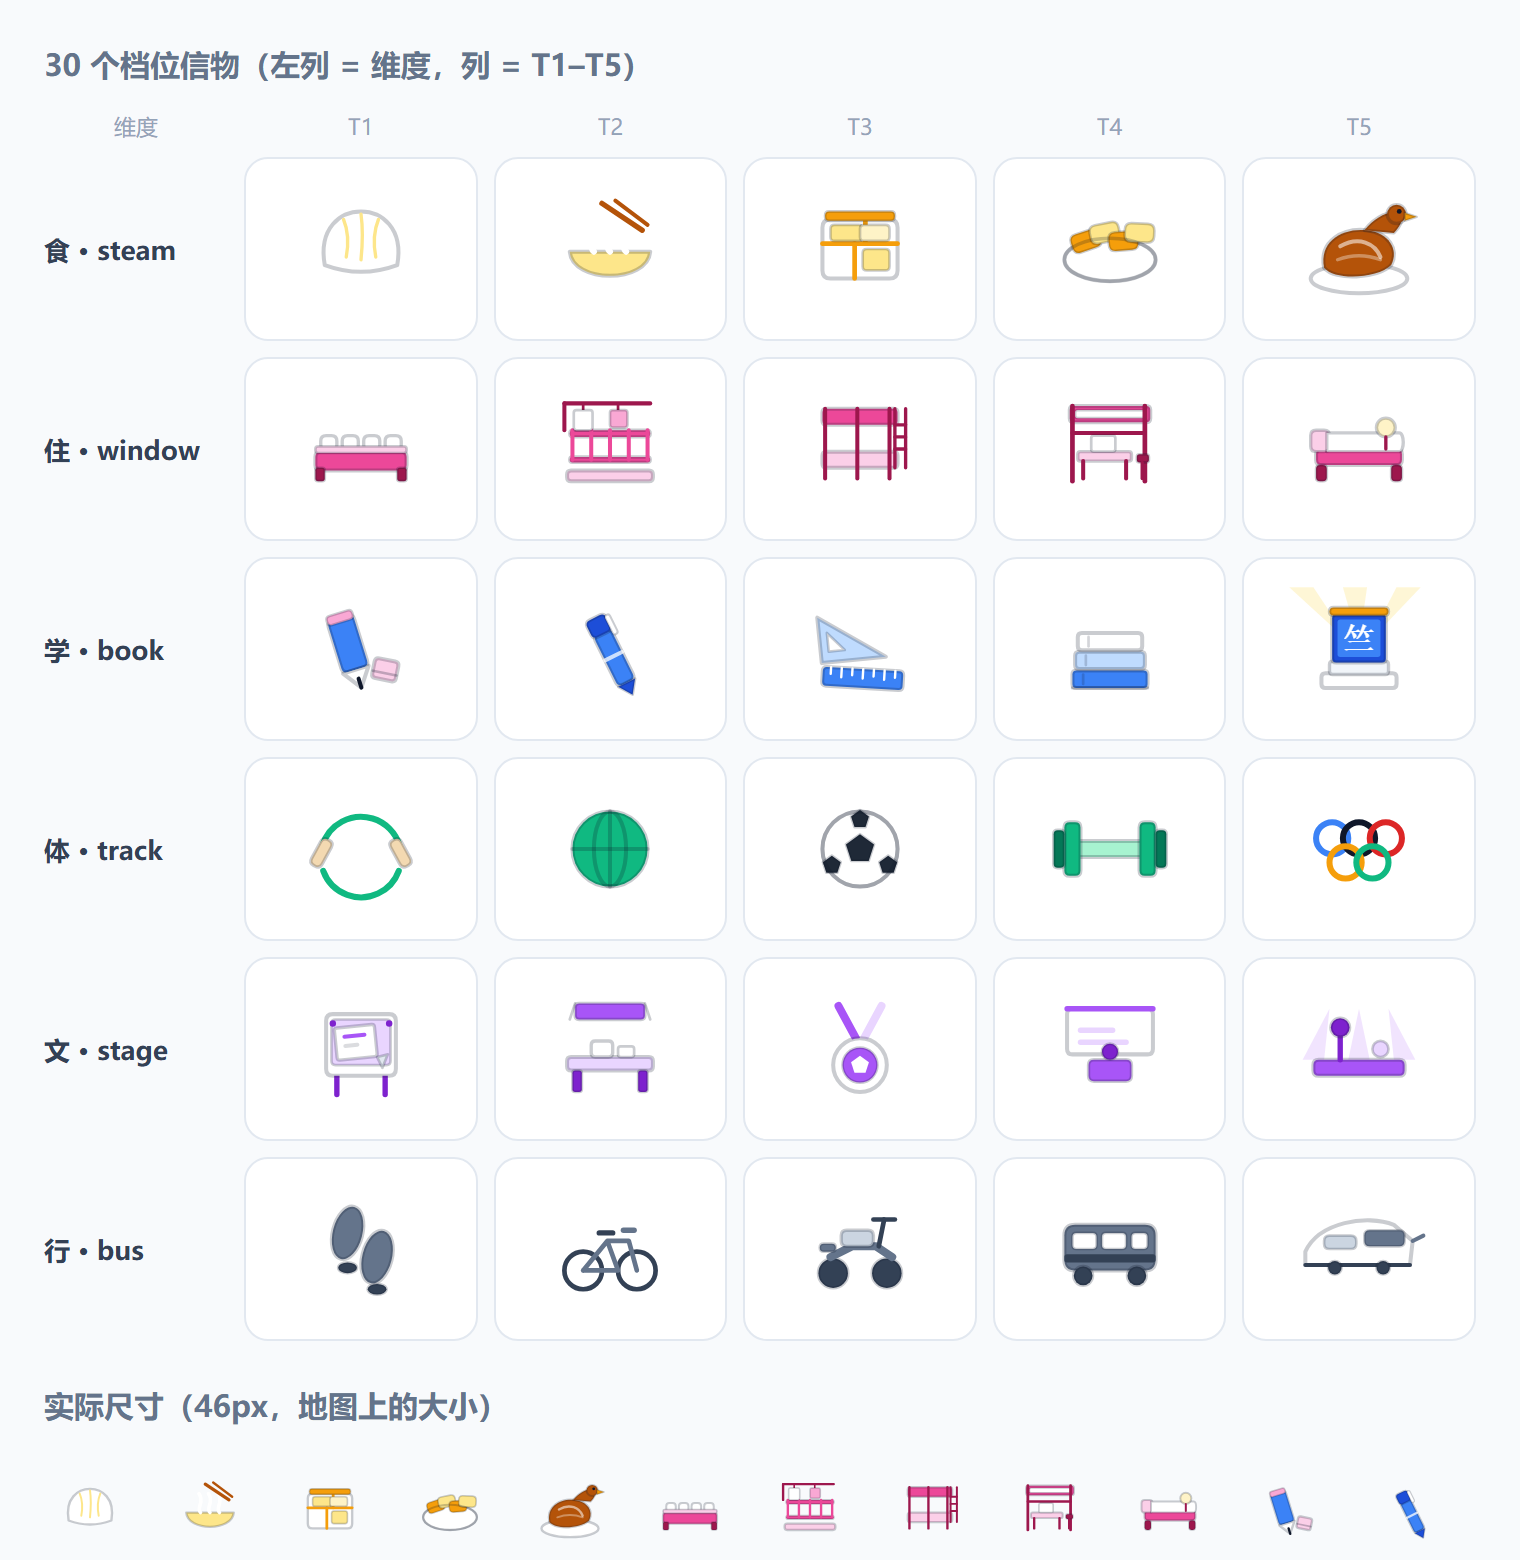
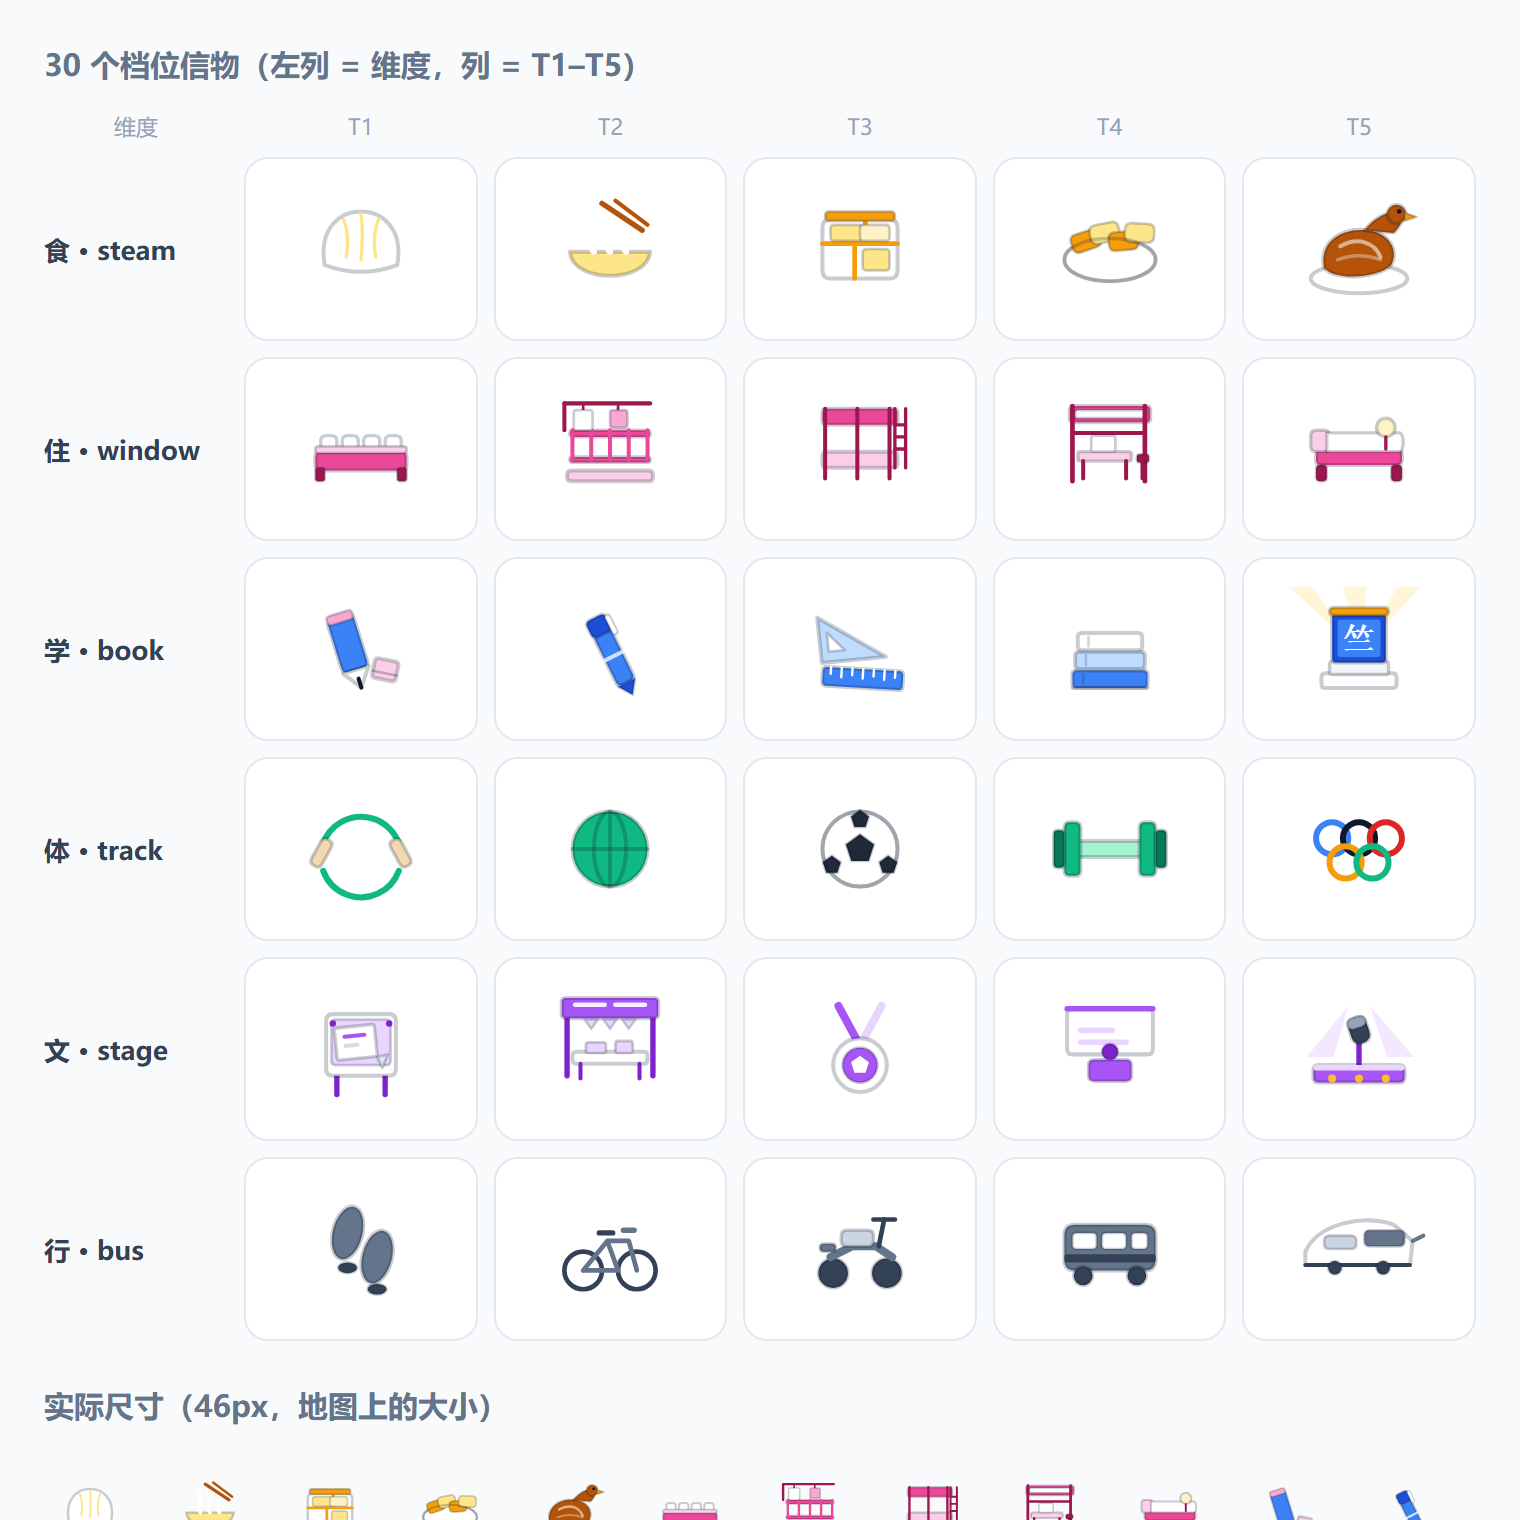
文维度信物细化：T2 改成摊位、T5 话筒加深
- T2：两根立杆 + 横幅（带字）+ 小旗串 + 桌子 + 两摞传单，原来像个长凳
- T5：去掉两侧音箱、话筒改成深色头 + 银灰网罩，在舞台上终于看得清
- 重新打包 dist

diff --git a/dist/site/index.html b/dist/site/index.html
@@ -3088,15 +3088,27 @@ NaN
       circle(ctx, -21, -19, 2.4); fill(ctx, c.dark, false);
       circle(ctx, 21, -19, 2.4); fill(ctx, c.dark, false);
     },
-    function (ctx, c) {                     // T2 社团招新（桌子 + 横幅）
-      rr(ctx, -26, -34, 52, 12, 3); fill(ctx, c.main, 2.5);      // 横幅
-      ctx.beginPath(); ctx.moveTo(-26, -34); ctx.lineTo(-30, -22); stroke(ctx, LINE, 2);
-      ctx.beginPath(); ctx.moveTo(26, -34); ctx.lineTo(30, -22); stroke(ctx, LINE, 2);
-      rr(ctx, -32, 6, 64, 10, 3); fill(ctx, c.soft, 3);          // 桌面
-      rr(ctx, -28, 16, 7, 16, 2); fill(ctx, c.dark, 2);
-      rr(ctx, 21, 16, 7, 16, 2); fill(ctx, c.dark, 2);
-      rr(ctx, -14, -6, 16, 12, 3); fill(ctx, '#ffffff', 2.5);    // 传单
-      rr(ctx, 6, -2, 12, 8, 2); fill(ctx, '#ffffff', 2);
+    function (ctx, c) {                     // T2 社团招新（摊位）
+      // 两根立杆
+      ctx.beginPath(); ctx.moveTo(-32, -30); ctx.lineTo(-32, 20); stroke(ctx, c.dark, 4);
+      ctx.beginPath(); ctx.moveTo(32, -30); ctx.lineTo(32, 20); stroke(ctx, c.dark, 4);
+      // 横幅
+      rr(ctx, -36, -38, 72, 15, 3); fill(ctx, c.main, 3);
+      ctx.beginPath(); ctx.moveTo(-26, -33); ctx.lineTo(-4, -33); stroke(ctx, 'rgba(255,255,255,.9)', 3.5);
+      ctx.beginPath(); ctx.moveTo(4, -33); ctx.lineTo(26, -33); stroke(ctx, 'rgba(255,255,255,.9)', 3.5);
+      // 小旗串
+      for (var i = -1; i <= 1; i++) {
+        ctx.beginPath();
+        ctx.moveTo(i * 14 - 5, -22); ctx.lineTo(i * 14 + 5, -22); ctx.lineTo(i * 14, -15);
+        ctx.closePath(); fill(ctx, c.soft, 1.8);
+      }
+      // 桌子
+      rr(ctx, -28, 2, 56, 9, 3); fill(ctx, '#ffffff', 3);
+      ctx.beginPath(); ctx.moveTo(-22, 11); ctx.lineTo(-22, 22); stroke(ctx, c.dark, 3);
+      ctx.beginPath(); ctx.moveTo(22, 11); ctx.lineTo(22, 22); stroke(ctx, c.dark, 3);
+      // 桌上两摞传单
+      rr(ctx, -18, -5, 15, 8, 2); fill(ctx, c.soft, 2);
+      rr(ctx, 4, -6, 13, 9, 2); fill(ctx, c.soft, 2);
     },
     function (ctx, c) {                     // T3 运动会（奖牌）
       ctx.beginPath(); ctx.moveTo(-16, -32); ctx.lineTo(-2, -6); stroke(ctx, c.main, 6);
@@ -3118,18 +3130,34 @@ NaN
       rr(ctx, -16, 8, 32, 16, 4); fill(ctx, c.main, 2.5);        // 讲台
       ctx.beginPath(); ctx.arc(0, 2, 6, 0, 6.283); fill(ctx, c.dark, 2);  // 人
     },
-    function (ctx, c) {                     // T5 演唱会（舞台 + 光）
-      for (var i = -1; i <= 1; i++) {
+    function (ctx, c) {                     // T5 演唱会（舞台 + 灯 + 麦）
+      // 两束顶光
+      ctx.save(); ctx.globalAlpha = 0.6;
+      [-1, 1].forEach(function (s) {
         ctx.beginPath();
-        ctx.moveTo(i * 22, -30);
-        ctx.lineTo(i * 34 - 8, 8); ctx.lineTo(i * 34 + 8, 8);
+        ctx.moveTo(s * 8, -32);
+        ctx.lineTo(s * 30 - 9, 6);
+        ctx.lineTo(s * 30 + 11, 6);
         ctx.closePath();
-        ctx.fillStyle = 'rgba(168,85,247,.16)'; ctx.fill();
-      }
-      rr(ctx, -34, 8, 68, 12, 4); fill(ctx, c.main, 3);
-      ctx.beginPath(); ctx.moveTo(-14, 8); ctx.lineTo(-14, -12); stroke(ctx, c.dark, 4);
-      circle(ctx, -14, -16, 7); fill(ctx, c.dark, 2.5);
-      circle(ctx, 16, 0, 6); fill(ctx, c.soft, 2);
+        ctx.fillStyle = 'rgba(168,85,247,.22)'; ctx.fill();
+      });
+      ctx.restore();
+
+      // 话筒：深色头 + 立杆
+      ctx.beginPath(); ctx.moveTo(0, 12); ctx.lineTo(0, -6); stroke(ctx, c.dark, 4);
+      ctx.save(); ctx.translate(0, -14); ctx.rotate(-0.32);
+      rr(ctx, -7, -10, 14, 20, 7); fill(ctx, '#334155', 2.5);
+      rr(ctx, -7, -10, 14, 8, 5); fill(ctx, '#94a3b8', 1.6);
+      ctx.restore();
+
+      // 舞台
+      rr(ctx, -34, 12, 68, 13, 4); fill(ctx, c.main, 3);
+      rr(ctx, -34, 12, 68, 4, 2); fill(ctx, c.soft, false);
+
+      // 台口灯
+      for (var i = -1; i <= 1; i++) circle(ctx, i * 20, 22, 3);
+      ctx.fillStyle = '#fbbf24';
+      for (var j = -1; j <= 1; j++) { ctx.beginPath(); ctx.arc(j * 20, 22, 3, 0, 6.283); ctx.fill(); }
     }
   ];
 

diff --git a/dist/紫金港改造计划.html b/dist/紫金港改造计划.html
@@ -3088,15 +3088,27 @@ NaN
       circle(ctx, -21, -19, 2.4); fill(ctx, c.dark, false);
       circle(ctx, 21, -19, 2.4); fill(ctx, c.dark, false);
     },
-    function (ctx, c) {                     // T2 社团招新（桌子 + 横幅）
-      rr(ctx, -26, -34, 52, 12, 3); fill(ctx, c.main, 2.5);      // 横幅
-      ctx.beginPath(); ctx.moveTo(-26, -34); ctx.lineTo(-30, -22); stroke(ctx, LINE, 2);
-      ctx.beginPath(); ctx.moveTo(26, -34); ctx.lineTo(30, -22); stroke(ctx, LINE, 2);
-      rr(ctx, -32, 6, 64, 10, 3); fill(ctx, c.soft, 3);          // 桌面
-      rr(ctx, -28, 16, 7, 16, 2); fill(ctx, c.dark, 2);
-      rr(ctx, 21, 16, 7, 16, 2); fill(ctx, c.dark, 2);
-      rr(ctx, -14, -6, 16, 12, 3); fill(ctx, '#ffffff', 2.5);    // 传单
-      rr(ctx, 6, -2, 12, 8, 2); fill(ctx, '#ffffff', 2);
+    function (ctx, c) {                     // T2 社团招新（摊位）
+      // 两根立杆
+      ctx.beginPath(); ctx.moveTo(-32, -30); ctx.lineTo(-32, 20); stroke(ctx, c.dark, 4);
+      ctx.beginPath(); ctx.moveTo(32, -30); ctx.lineTo(32, 20); stroke(ctx, c.dark, 4);
+      // 横幅
+      rr(ctx, -36, -38, 72, 15, 3); fill(ctx, c.main, 3);
+      ctx.beginPath(); ctx.moveTo(-26, -33); ctx.lineTo(-4, -33); stroke(ctx, 'rgba(255,255,255,.9)', 3.5);
+      ctx.beginPath(); ctx.moveTo(4, -33); ctx.lineTo(26, -33); stroke(ctx, 'rgba(255,255,255,.9)', 3.5);
+      // 小旗串
+      for (var i = -1; i <= 1; i++) {
+        ctx.beginPath();
+        ctx.moveTo(i * 14 - 5, -22); ctx.lineTo(i * 14 + 5, -22); ctx.lineTo(i * 14, -15);
+        ctx.closePath(); fill(ctx, c.soft, 1.8);
+      }
+      // 桌子
+      rr(ctx, -28, 2, 56, 9, 3); fill(ctx, '#ffffff', 3);
+      ctx.beginPath(); ctx.moveTo(-22, 11); ctx.lineTo(-22, 22); stroke(ctx, c.dark, 3);
+      ctx.beginPath(); ctx.moveTo(22, 11); ctx.lineTo(22, 22); stroke(ctx, c.dark, 3);
+      // 桌上两摞传单
+      rr(ctx, -18, -5, 15, 8, 2); fill(ctx, c.soft, 2);
+      rr(ctx, 4, -6, 13, 9, 2); fill(ctx, c.soft, 2);
     },
     function (ctx, c) {                     // T3 运动会（奖牌）
       ctx.beginPath(); ctx.moveTo(-16, -32); ctx.lineTo(-2, -6); stroke(ctx, c.main, 6);
@@ -3118,18 +3130,34 @@ NaN
       rr(ctx, -16, 8, 32, 16, 4); fill(ctx, c.main, 2.5);        // 讲台
       ctx.beginPath(); ctx.arc(0, 2, 6, 0, 6.283); fill(ctx, c.dark, 2);  // 人
     },
-    function (ctx, c) {                     // T5 演唱会（舞台 + 光）
-      for (var i = -1; i <= 1; i++) {
+    function (ctx, c) {                     // T5 演唱会（舞台 + 灯 + 麦）
+      // 两束顶光
+      ctx.save(); ctx.globalAlpha = 0.6;
+      [-1, 1].forEach(function (s) {
         ctx.beginPath();
-        ctx.moveTo(i * 22, -30);
-        ctx.lineTo(i * 34 - 8, 8); ctx.lineTo(i * 34 + 8, 8);
+        ctx.moveTo(s * 8, -32);
+        ctx.lineTo(s * 30 - 9, 6);
+        ctx.lineTo(s * 30 + 11, 6);
         ctx.closePath();
-        ctx.fillStyle = 'rgba(168,85,247,.16)'; ctx.fill();
-      }
-      rr(ctx, -34, 8, 68, 12, 4); fill(ctx, c.main, 3);
-      ctx.beginPath(); ctx.moveTo(-14, 8); ctx.lineTo(-14, -12); stroke(ctx, c.dark, 4);
-      circle(ctx, -14, -16, 7); fill(ctx, c.dark, 2.5);
-      circle(ctx, 16, 0, 6); fill(ctx, c.soft, 2);
+        ctx.fillStyle = 'rgba(168,85,247,.22)'; ctx.fill();
+      });
+      ctx.restore();
+
+      // 话筒：深色头 + 立杆
+      ctx.beginPath(); ctx.moveTo(0, 12); ctx.lineTo(0, -6); stroke(ctx, c.dark, 4);
+      ctx.save(); ctx.translate(0, -14); ctx.rotate(-0.32);
+      rr(ctx, -7, -10, 14, 20, 7); fill(ctx, '#334155', 2.5);
+      rr(ctx, -7, -10, 14, 8, 5); fill(ctx, '#94a3b8', 1.6);
+      ctx.restore();
+
+      // 舞台
+      rr(ctx, -34, 12, 68, 13, 4); fill(ctx, c.main, 3);
+      rr(ctx, -34, 12, 68, 4, 2); fill(ctx, c.soft, false);
+
+      // 台口灯
+      for (var i = -1; i <= 1; i++) circle(ctx, i * 20, 22, 3);
+      ctx.fillStyle = '#fbbf24';
+      for (var j = -1; j <= 1; j++) { ctx.beginPath(); ctx.arc(j * 20, 22, 3, 0, 6.283); ctx.fill(); }
     }
   ];
 

diff --git a/render/relics.js b/render/relics.js
@@ -326,15 +326,27 @@
       circle(ctx, -21, -19, 2.4); fill(ctx, c.dark, false);
       circle(ctx, 21, -19, 2.4); fill(ctx, c.dark, false);
     },
-    function (ctx, c) {                     // T2 社团招新（桌子 + 横幅）
-      rr(ctx, -26, -34, 52, 12, 3); fill(ctx, c.main, 2.5);      // 横幅
-      ctx.beginPath(); ctx.moveTo(-26, -34); ctx.lineTo(-30, -22); stroke(ctx, LINE, 2);
-      ctx.beginPath(); ctx.moveTo(26, -34); ctx.lineTo(30, -22); stroke(ctx, LINE, 2);
-      rr(ctx, -32, 6, 64, 10, 3); fill(ctx, c.soft, 3);          // 桌面
-      rr(ctx, -28, 16, 7, 16, 2); fill(ctx, c.dark, 2);
-      rr(ctx, 21, 16, 7, 16, 2); fill(ctx, c.dark, 2);
-      rr(ctx, -14, -6, 16, 12, 3); fill(ctx, '#ffffff', 2.5);    // 传单
-      rr(ctx, 6, -2, 12, 8, 2); fill(ctx, '#ffffff', 2);
+    function (ctx, c) {                     // T2 社团招新（摊位）
+      // 两根立杆
+      ctx.beginPath(); ctx.moveTo(-32, -30); ctx.lineTo(-32, 20); stroke(ctx, c.dark, 4);
+      ctx.beginPath(); ctx.moveTo(32, -30); ctx.lineTo(32, 20); stroke(ctx, c.dark, 4);
+      // 横幅
+      rr(ctx, -36, -38, 72, 15, 3); fill(ctx, c.main, 3);
+      ctx.beginPath(); ctx.moveTo(-26, -33); ctx.lineTo(-4, -33); stroke(ctx, 'rgba(255,255,255,.9)', 3.5);
+      ctx.beginPath(); ctx.moveTo(4, -33); ctx.lineTo(26, -33); stroke(ctx, 'rgba(255,255,255,.9)', 3.5);
+      // 小旗串
+      for (var i = -1; i <= 1; i++) {
+        ctx.beginPath();
+        ctx.moveTo(i * 14 - 5, -22); ctx.lineTo(i * 14 + 5, -22); ctx.lineTo(i * 14, -15);
+        ctx.closePath(); fill(ctx, c.soft, 1.8);
+      }
+      // 桌子
+      rr(ctx, -28, 2, 56, 9, 3); fill(ctx, '#ffffff', 3);
+      ctx.beginPath(); ctx.moveTo(-22, 11); ctx.lineTo(-22, 22); stroke(ctx, c.dark, 3);
+      ctx.beginPath(); ctx.moveTo(22, 11); ctx.lineTo(22, 22); stroke(ctx, c.dark, 3);
+      // 桌上两摞传单
+      rr(ctx, -18, -5, 15, 8, 2); fill(ctx, c.soft, 2);
+      rr(ctx, 4, -6, 13, 9, 2); fill(ctx, c.soft, 2);
     },
     function (ctx, c) {                     // T3 运动会（奖牌）
       ctx.beginPath(); ctx.moveTo(-16, -32); ctx.lineTo(-2, -6); stroke(ctx, c.main, 6);
@@ -356,18 +368,34 @@
       rr(ctx, -16, 8, 32, 16, 4); fill(ctx, c.main, 2.5);        // 讲台
       ctx.beginPath(); ctx.arc(0, 2, 6, 0, 6.283); fill(ctx, c.dark, 2);  // 人
     },
-    function (ctx, c) {                     // T5 演唱会（舞台 + 光）
-      for (var i = -1; i <= 1; i++) {
+    function (ctx, c) {                     // T5 演唱会（舞台 + 灯 + 麦）
+      // 两束顶光
+      ctx.save(); ctx.globalAlpha = 0.6;
+      [-1, 1].forEach(function (s) {
         ctx.beginPath();
-        ctx.moveTo(i * 22, -30);
-        ctx.lineTo(i * 34 - 8, 8); ctx.lineTo(i * 34 + 8, 8);
+        ctx.moveTo(s * 8, -32);
+        ctx.lineTo(s * 30 - 9, 6);
+        ctx.lineTo(s * 30 + 11, 6);
         ctx.closePath();
-        ctx.fillStyle = 'rgba(168,85,247,.16)'; ctx.fill();
-      }
-      rr(ctx, -34, 8, 68, 12, 4); fill(ctx, c.main, 3);
-      ctx.beginPath(); ctx.moveTo(-14, 8); ctx.lineTo(-14, -12); stroke(ctx, c.dark, 4);
-      circle(ctx, -14, -16, 7); fill(ctx, c.dark, 2.5);
-      circle(ctx, 16, 0, 6); fill(ctx, c.soft, 2);
+        ctx.fillStyle = 'rgba(168,85,247,.22)'; ctx.fill();
+      });
+      ctx.restore();
+
+      // 话筒：深色头 + 立杆
+      ctx.beginPath(); ctx.moveTo(0, 12); ctx.lineTo(0, -6); stroke(ctx, c.dark, 4);
+      ctx.save(); ctx.translate(0, -14); ctx.rotate(-0.32);
+      rr(ctx, -7, -10, 14, 20, 7); fill(ctx, '#334155', 2.5);
+      rr(ctx, -7, -10, 14, 8, 5); fill(ctx, '#94a3b8', 1.6);
+      ctx.restore();
+
+      // 舞台
+      rr(ctx, -34, 12, 68, 13, 4); fill(ctx, c.main, 3);
+      rr(ctx, -34, 12, 68, 4, 2); fill(ctx, c.soft, false);
+
+      // 台口灯
+      for (var i = -1; i <= 1; i++) circle(ctx, i * 20, 22, 3);
+      ctx.fillStyle = '#fbbf24';
+      for (var j = -1; j <= 1; j++) { ctx.beginPath(); ctx.arc(j * 20, 22, 3, 0, 6.283); ctx.fill(); }
     }
   ];
 
